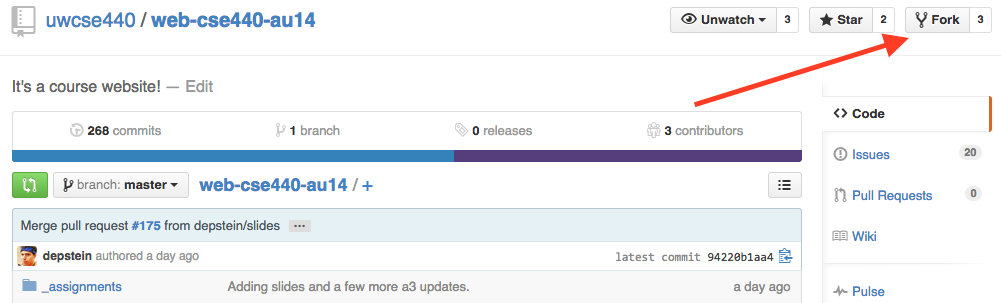
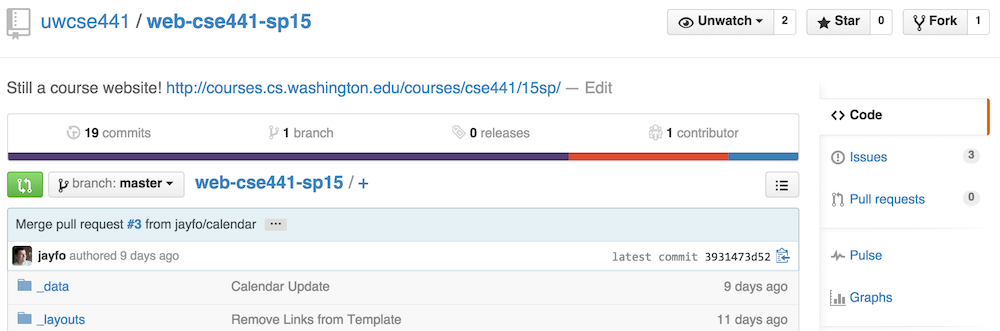
First part of contributing

diff --git a/contributing.md b/contributing.md
@@ -3,8 +3,6 @@ layout: default
 title: General Development Guide
 ---
 
-` This page will still be updated `
-
 This page documents some of our development tools and conventions. It aims to be thorough as possible while
 remaining generic. Individual projects then document their own installation and configuration details.
 
@@ -26,9 +24,9 @@ By convention, GitHub for Windows defines the `upstream` remote:
 
     git remote add upstream <GitHub HTTPS clone URL>
 
-For example, for [cse440-au14](https://github.com/uwcse440/web-cse440-au14) we define `upstream` as:
+For example, for [cse441-sp15](https://github.com/uwcse441/web-cse441-sp15) we define `upstream` as:
 
-    git remote add upstream https://github.com/uwcse440/web-cse440-au14.git
+    git remote add upstream https://github.com/uwcse441/web-cse441-sp15.git
 
 This ends up being a very useful convention, regardless of whether you're on Windows, Mac, Linux, or something we've never heard of.
 
@@ -227,9 +225,9 @@ By convention, GitHub for Windows defines the `upstream` remote:
 
     git remote add upstream <GitHub HTTPS clone URL>
 
-For example, for [cse440-au14](https://github.com/uwcse440/web-cse440-au14) we define `upstream` as:
+For example, for [cse441-sp15](https://github.com/uwcse441/web-cse441-sp15) we define `upstream` as:
 
-    git remote add upstream https://github.com/uwcse440/web-cse440-au14.git
+    git remote add upstream https://github.com/uwcse441/web-cse441-sp15.git
 
 This ends up being a very useful convention, regardless of whether you're on Windows, Mac, Linux, or something we've never heard of.
 
@@ -261,7 +259,7 @@ The `deploy` task will deploy the site to its production location.
 
 ## <a name="forking"></a> Forking the Repository
 
-The easiest way to fork a repository is to visit the repository on GitHub and press the fork button. So for our course repository, visit [here](https://github.com/uwcse440/web-cse440-au14).
+The easiest way to fork a repository is to visit the repository on GitHub and press the fork button. So for our course repository, visit [here](https://github.com/uwcse441/web-cse441-sp15).
 
 ![fork]({{ site.baseurl }}/images/development_general/fork.png)
 
@@ -305,7 +303,7 @@ This is usually pretty apparent via the desktop applications. Files usually are 
 
 ## <a name="pull_request"></a> Submitting a Pull Request
 
-After pushing a set of changes, a pull request appears in the parent repository (the [course website repository](https://github.com/uwcse440/web-cse440-au14) in our case). It'll look something like the following:
+After pushing a set of changes, a pull request appears in the parent repository (the [course website repository](https://github.com/uwcse441/web-cse441-sp15) in our case). It'll look something like the following:
 
 ![pull_request]({{ site.baseurl }}/images/development_general/pull_request.png)
 
